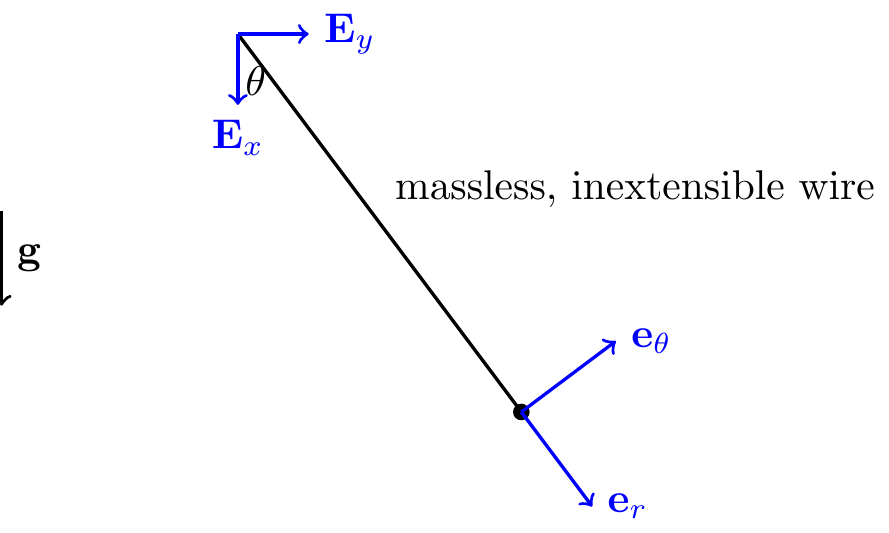
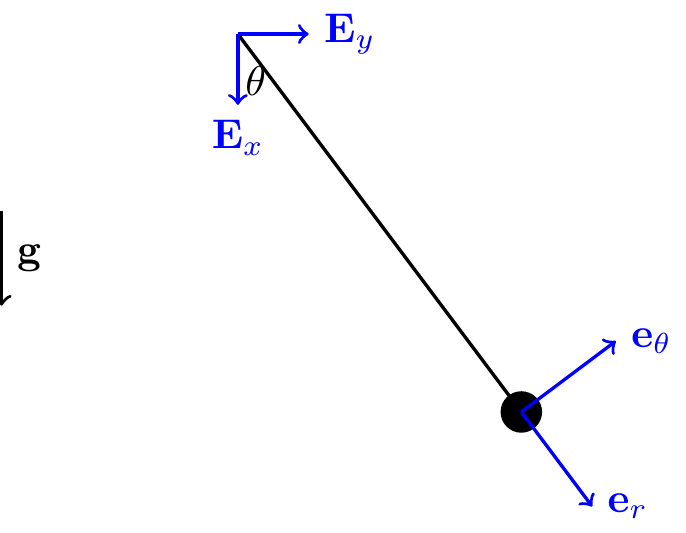
Built site for gh-pages

diff --git a/particle_dynamics/cylindrical_polar_coordinates.html b/particle_dynamics/cylindrical_polar_coordinates.html
@@ -385,10 +385,7 @@ window.Quarto = {
   <li><a href="#example-particle-in-a-rotating-tube" id="toc-example-particle-in-a-rotating-tube" class="nav-link" data-scroll-target="#example-particle-in-a-rotating-tube"><span class="header-section-number">9.4.1</span> Example: Particle in a Rotating Tube</a></li>
   <li><a href="#example-particle-pushed-in-a-circle" id="toc-example-particle-pushed-in-a-circle" class="nav-link" data-scroll-target="#example-particle-pushed-in-a-circle"><span class="header-section-number">9.4.2</span> Example: Particle Pushed in a Circle</a></li>
   </ul></li>
-  <li><a href="#cylindrical-polar-coordinates" id="toc-cylindrical-polar-coordinates" class="nav-link" data-scroll-target="#cylindrical-polar-coordinates"><span class="header-section-number">9.5</span> Cylindrical-Polar Coordinates</a>
-  <ul class="collapse">
-  <li><a href="#example-particle-on-a-cone" id="toc-example-particle-on-a-cone" class="nav-link" data-scroll-target="#example-particle-on-a-cone"><span class="header-section-number">9.5.1</span> Example: Particle on a Cone</a></li>
-  </ul></li>
+  <li><a href="#cylindrical-polar-coordinates" id="toc-cylindrical-polar-coordinates" class="nav-link" data-scroll-target="#cylindrical-polar-coordinates"><span class="header-section-number">9.5</span> Cylindrical-Polar Coordinates</a></li>
   <li><a href="#summary" id="toc-summary" class="nav-link" data-scroll-target="#summary"><span class="header-section-number">9.6</span> Summary</a></li>
   <li><a href="#lecture-videos" id="toc-lecture-videos" class="nav-link" data-scroll-target="#lecture-videos"><span class="header-section-number">9.7</span> Lecture Videos</a></li>
   <li><a href="#exercises" id="toc-exercises" class="nav-link" data-scroll-target="#exercises"><span class="header-section-number">9.8</span> Exercises</a></li>
@@ -443,13 +440,15 @@ window.Quarto = {
 </div>
 <p>Consider a particle in motion in the two dimensional Euclidean space <span class="math inline">\(\mathbb{E}^2\)</span>. Define: <span class="math display">\[\begin{align}
     r = \sqrt{x^2+y^2}\geq 0, \qquad \theta = \tan^{-1}\lp\frac{y}{x}\rp.
-\end{align}\]</span> So <span class="math inline">\(x = r\cos(\theta)\)</span> and <span class="math inline">\(y = r\sin(\theta)\)</span>.</p>
+\end{align}\]</span> So <span class="math display">\[\begin{align}
+    x = r\cos(\theta), \qquad y = r\sin(\theta)
+\end{align}\]</span></p>
 <p>Define the basis <span class="math inline">\(\{{\bf e}_r,{\bf e}_\theta\}\)</span> as a rotation of <span class="math inline">\(\{{\bf E}_x,{\bf E}_y\}\)</span> by angle <span class="math inline">\(\theta\)</span> (positive CCW about <span class="math inline">\({\bf E}_z\)</span>):</p>
 <div class="cell" data-layout-align="center">
 <div class="cell-output-display">
 <div class="quarto-figure quarto-figure-center">
 <figure class="figure">
-<p><img src="cylindrical_polar_coordinates_files/figure-html/unnamed-chunk-2-1.png" class="img-fluid quarto-figure quarto-figure-center figure-img" width="96"></p>
+<p><img src="cylindrical_polar_coordinates_files/figure-html/unnamed-chunk-2-1.png" class="img-fluid quarto-figure quarto-figure-center figure-img" width="192"></p>
 </figure>
 </div>
 </div>
@@ -530,7 +529,7 @@ window.Quarto = {
 <div class="cell-output-display">
 <div class="quarto-figure quarto-figure-center">
 <figure class="figure">
-<p><img src="cylindrical_polar_coordinates_files/figure-html/unnamed-chunk-3-1.png" class="img-fluid quarto-figure quarto-figure-center figure-img" width="96"></p>
+<p><img src="cylindrical_polar_coordinates_files/figure-html/unnamed-chunk-3-1.png" class="img-fluid quarto-figure quarto-figure-center figure-img" width="192"></p>
 </figure>
 </div>
 </div>
@@ -555,7 +554,7 @@ window.Quarto = {
 </div>
 </div>
 <div class="callout-body-container callout-body">
-<p><strong>Question:</strong> Calculate <span class="math inline">\({\bf v}\)</span> and <span class="math inline">\({\bf a}\)</span>.</p>
+<p><strong>Question:</strong> Show that <span class="math inline">\({\bf v} = \dot{r}{\bf e}_r+r\dot{\theta}{\bf e}_\theta\)</span> and <span class="math inline">\({\bf a} = \lp \ddot{r}-r\dot{\theta}^2\rp{\bf e}_r+\lp 2\dot{r}\dot{\theta}+r\ddot{\theta}\rp{\bf e}_\theta\)</span>.</p>
 <div class="callout callout-style-default callout-note callout-titled" title="Answer">
 <div class="callout-header d-flex align-content-center collapsed" data-bs-toggle="collapse" data-bs-target=".callout-5-contents" aria-controls="callout-5" aria-expanded="false" aria-label="Toggle callout">
 <div class="callout-icon-container">
@@ -580,36 +579,44 @@ window.Quarto = {
 </div>
 </div>
 </div>
-<p><span class="math display">\[\begin{align*}
-    {\bf r} &amp;= r{\bf e}_r+0{\bf e}_\theta\\
-    {\bf v} &amp;= v_r{\bf e}_r+v_\theta{\bf e}_\theta\\
-    {\bf a} &amp;= a_r{\bf e}_r+a_\theta{\bf e}_\theta
-\end{align*}\]</span></p>
-<p><strong>Remark: <span class="math inline">\(a_r \neq \dot{v}_r\)</span>.</strong> Be careful: <span class="math inline">\(v_r = \dot{r}\)</span> so <span class="math inline">\(\dot{v}_r = \ddot{r}\)</span>, but <span class="math inline">\(a_r = \ddot{r} - r\dot{\theta}^2 \neq \dot{v}_r\)</span> in general.</p>
-<p>Note the components of acceleration:</p>
+<p>Note the components of acceleration vector:</p>
 <ul>
 <li><span class="math inline">\(r\ddot{\theta}\)</span>: tangential</li>
 <li><span class="math inline">\(\ddot{r}\)</span>: radial</li>
 <li><span class="math inline">\(r\dot{\theta}^2\)</span>: centripetal</li>
 <li><span class="math inline">\(2\dot{r}\dot{\theta}\)</span>: Coriolis</li>
 </ul>
-<p><strong>Remark: When to use polar vs Cartesiancoordinates?</strong> For rectilinear motions, Cartesian coordinates are usually easiest. For problems where <span class="math inline">\(r\)</span> is directly measured (e.g.&nbsp;radar tracking), polar coordinates are natural.</p>
+<p>We may also introduce the notation <span class="math display">\[\begin{align*}
+    {\bf r} &amp;= r{\bf e}_r+0{\bf e}_\theta\\
+    {\bf v} &amp;= v_r{\bf e}_r+v_\theta{\bf e}_\theta\\
+    {\bf a} &amp;= a_r{\bf e}_r+a_\theta{\bf e}_\theta
+\end{align*}\]</span></p>
+<p><strong>Remark: <span class="math inline">\(a_r \neq \dot{v}_r\)</span>.</strong> Be careful: <span class="math inline">\(v_r = \dot{r}\)</span> so <span class="math inline">\(\dot{v}_r = \ddot{r}\)</span>, but <span class="math inline">\(a_r = \ddot{r} - r\dot{\theta}^2 \neq \dot{v}_r\)</span> in general.</p>
+<p><strong>Remark: When to use polar vs Cartesiancoordinates?</strong> For rectilinear motions, Cartesian coordinates are usually easiest. For problems where <span class="math inline">\(r\)</span> is directly measured (e.g.&nbsp;radar tracking as in MKB 2/121.), polar coordinates are natural.</p>
+<div class="quarto-figure quarto-figure-center">
+<figure class="figure">
+<p><img src="../figures/cylindrical_polar_coordinates/02-121.jpg" class="img-fluid figure-img" style="width:50.0%"></p>
+<figcaption>MKB 2/121.</figcaption>
+</figure>
+</div>
 </section>
 <section id="example-nonlinear-pendulum" class="level2" data-number="9.3">
 <h2 data-number="9.3" class="anchored" data-anchor-id="example-nonlinear-pendulum"><span class="header-section-number">9.3</span> Example: Nonlinear Pendulum</h2>
-<p>Consider a particle of mass <span class="math inline">\(m\)</span> suspended from a rigid inextensible string of length <span class="math inline">\(\ell\)</span>. Find the equation of motion.</p>
+<p>Consider a particle of mass <span class="math inline">\(m\)</span> suspended by a massless inextensible string of length <span class="math inline">\(\ell\)</span>. Find the equation of motion of the particle and the tension in the string.</p>
 <div class="cell" data-layout-align="center">
 <div class="cell-output-display">
 <div class="quarto-figure quarto-figure-center">
 <figure class="figure">
-<p><img src="cylindrical_polar_coordinates_files/figure-html/unnamed-chunk-4-1.png" class="img-fluid quarto-figure quarto-figure-center figure-img" width="192"></p>
+<p><img src="cylindrical_polar_coordinates_files/figure-html/unnamed-chunk-4-1.png" class="img-fluid quarto-figure quarto-figure-center figure-img" width="288"></p>
 </figure>
 </div>
 </div>
 </div>
-<p>The constraint on the motion: <span class="math display">\[\begin{align}
+<p>The planar motion of the particle is constrained by the string. This constraint can be expressed mathematically in Cartesian and polar coordinates respectively as <span class="math display">\[\begin{align}
+    \sqrt{x^2+y^2} = \ell
+\end{align}\]</span> <span class="math display">\[\begin{align}
     r = \ell = \text{const.} \implies \dot{r}=0,\ \ddot{r} = 0.
-\end{align}\]</span></p>
+\end{align}\]</span> Note that the constraint is simpler in polar coordinates. This is a common theme: the right choice of coordinates can simplify the problem significantly.</p>
 <div class="callout callout-style-default callout-tip callout-titled" title="Think!">
 <div class="callout-header d-flex align-content-center">
 <div class="callout-icon-container">
@@ -641,7 +648,7 @@ window.Quarto = {
 </div>
 <p>Following the four steps:</p>
 <ol type="1">
-<li>Choose polar coordinates: <span class="math display">\[\begin{align*}
+<li>Our system is the particke. Choosing polar coordinates, we write its position, velocity, and acceleration as <span class="math display">\[\begin{align*}
 {\bf r} &amp;= \ell{\bf e}_r, \quad {\bf v} = \ell\dot{\theta}{\bf e}_\theta, \quad {\bf a} = \ell\ddot{\theta}{\bf e}_\theta-\ell\dot{\theta}^2{\bf e}_r.
 \end{align*}\]</span></li>
 </ol>
@@ -677,30 +684,63 @@ window.Quarto = {
 </div>
 </div>
 <ol start="3" type="1">
-<li>Balance of linear momentum: <span class="math display">\[\begin{align*}
+<li><p>Balance of linear momentum: <span class="math display">\[\begin{align*}
 mg{\bf E}_x-T{\bf e}_r &amp;= m\ell\lp\ddot{\theta}{\bf e}_\theta-\dot{\theta}^2{\bf e}_r\rp.
-\end{align*}\]</span> Projecting along <span class="math inline">\({\bf e}_\theta\)</span> (hides unknown tension): <span class="math display">\[\begin{align*}
--mg\sin(\theta) &amp;= m\ell\ddot{\theta} \implies \ddot{\theta}+\frac{g}{\ell}\sin(\theta) = 0.
-\end{align*}\]</span> For small <span class="math inline">\(\theta\)</span>: <span class="math inline">\(\ddot{\theta}+\frac{g}{\ell}\theta = 0\)</span> (simple harmonic motion).</li>
+\end{align*}\]</span></p></li>
+<li><p>Projecting along <span class="math inline">\({\bf e}_\theta\)</span> (hides unknown tension) and results in the equation of motion for <span class="math inline">\(\theta\)</span>: <span class="math display">\[\begin{align*}
+-mg\sin(\theta) &amp;= m\ell\ddot{\theta} \implies \ddot{\theta}+\frac{g}{\ell}\sin(\theta) = 0
+\end{align*}\]</span> which can be solved numerically for <span class="math inline">\(\theta(t)\)</span> given IC’s <span class="math inline">\(\theta(0), \dot{\theta}(0)\)</span>. This is a nonlinear ODE. For small <span class="math inline">\(\theta\)</span>, we can linearise <span class="math inline">\(\sin(\theta)\approx \theta\)</span> and solve the resulting simple harmonic motion equation by hand <span class="math display">\[\begin{align*}
+\ddot{\theta}+\frac{g}{\ell}\theta = 0
+\end{align*}\]</span></p></li>
 </ol>
-<p>Projecting along <span class="math inline">\({\bf e}_r\)</span> gives the tension: <span class="math inline">\(T = m\lp\ell\dot{\theta}^2+g\cos(\theta)\rp\)</span>.</p>
+<p>Projecting along <span class="math inline">\({\bf e}_r\)</span> gives the tension: <span class="math display">\[\begin{align*}
+    T = m\lp\ell\dot{\theta}^2+g\cos(\theta)\rp
+\end{align*}\]</span></p>
 </section>
 <section id="types-of-accelerations-explained" class="level2" data-number="9.4">
 <h2 data-number="9.4" class="anchored" data-anchor-id="types-of-accelerations-explained"><span class="header-section-number">9.4</span> Types of Accelerations Explained</h2>
+<p>The goal of this section is to give physical intuition for the different components of acceleration in polar coordinates.</p>
 <p>Recall: <span class="math display">\[\begin{align*}
     {\bf a} = \lp\ddot{r}-r\dot{\theta}^2\rp{\bf e}_r+\lp2\dot{r}\dot{\theta}+r\ddot{\theta}\rp{\bf e}_\theta.
 \end{align*}\]</span></p>
+<div class="callout callout-style-default callout-tip callout-titled" title="Think!">
+<div class="callout-header d-flex align-content-center">
+<div class="callout-icon-container">
+<i class="callout-icon"></i>
+</div>
+<div class="callout-title-container flex-fill">
+<span class="screen-reader-only">Tip</span>Think!
+</div>
+</div>
+<div class="callout-body-container callout-body">
+<p><strong>Question:</strong> Can you think of physical systems where the acceleration of the particle is purely tangential, purely radial, purely centripetal, or purely Coriolis?</p>
+<div class="callout callout-style-default callout-note callout-titled" title="Answer">
+<div class="callout-header d-flex align-content-center collapsed" data-bs-toggle="collapse" data-bs-target=".callout-11-contents" aria-controls="callout-11" aria-expanded="false" aria-label="Toggle callout">
+<div class="callout-icon-container">
+<i class="callout-icon"></i>
+</div>
+<div class="callout-title-container flex-fill">
+<span class="screen-reader-only">Note</span>Answer
+</div>
+<div class="callout-btn-toggle d-inline-block border-0 py-1 ps-1 pe-0 float-end"><i class="callout-toggle"></i></div>
+</div>
+<div id="callout-11" class="callout-11-contents callout-collapse collapse">
+<div class="callout-body-container callout-body">
+<p>…</p>
+</div>
+</div>
+</div>
+</div>
+</div>
 <ul>
 <li><strong>Radial</strong> <span class="math inline">\(\ddot{r}\)</span>: particle on a spring in rectilinear motion.</li>
 <li><strong>Centripetal</strong> <span class="math inline">\(-r\dot{\theta}^2\)</span>: particle on a circle at constant speed — the normal force steers the particle.</li>
-<li><strong>Coriolis</strong> <span class="math inline">\(2\dot{r}\dot{\theta}\)</span>: particle in a tube rotating at constant angular velocity.</li>
-<li><strong>Tangential</strong> <span class="math inline">\(r\ddot{\theta}\)</span>: particle pushed along a circle.</li>
+<li><strong>Tangential</strong> <span class="math inline">\(r\ddot{\theta}\)</span>: It is not possible to have purely tangential acceleration without a nonzero centripetal acceleration. particle pushed along a circle.</li>
+<li><strong>Coriolis</strong> <span class="math inline">\(2\dot{r}\dot{\theta}\)</span>: It is not possible to have purely Coriolis acceleration without a nonzero centripetal acceleration. A minimal example of nonzero Coriolis acceleration is a particle in a tube rotating at constant angular velocity. The Coriolis acceleration is due to both the rotation of the tube and the radial motion of the particle inside the tube.</li>
 </ul>
-<p><img src="../figures/cylindrical_polar_coordinates/rddot.png" class="img-fluid" style="width:50.0%" alt="Radial (\ddot{r}) acceleration."> <img src="../figures/cylindrical_polar_coordinates/centripetal_acceleration.png" class="img-fluid" style="width:50.0%" alt="Centripetal (-r\dot\theta^2) acceleration."> <img src="../figures/cylindrical_polar_coordinates/coriolis_acceleration.png" class="img-fluid" style="width:50.0%" alt="Coriolis (2\dot{r}\dot\theta) acceleration."> <img src="../figures/cylindrical_polar_coordinates/tangential_acceleration.png" class="img-fluid" style="width:50.0%" alt="Tangential (r\ddot\theta) acceleration."></p>
 <section id="example-particle-in-a-rotating-tube" class="level3" data-number="9.4.1">
 <h3 data-number="9.4.1" class="anchored" data-anchor-id="example-particle-in-a-rotating-tube"><span class="header-section-number">9.4.1</span> Example: Particle in a Rotating Tube</h3>
 <p><span class="math inline">\(\dot{\theta} = \omega = \text{const.}\)</span>, <span class="math inline">\(\ddot{\theta} = 0\)</span>.</p>
-<p><img src="../figures/cylindrical_polar_coordinates/particle_in_rotating_tube.png" class="img-fluid" style="width:50.0%" alt="Rotating tube setup."> <img src="../figures/cylindrical_polar_coordinates/particle_in_tube_fbd.JPG" class="img-fluid" style="width:50.0%" alt="Free body diagram."></p>
 <div class="cell" data-layout-align="center">
 <div class="cell-output-display">
 <div class="quarto-figure quarto-figure-center">
@@ -763,12 +803,7 @@ mg{\bf E}_x-T{\bf e}_r &amp;= m\ell\lp\ddot{\theta}{\bf e}_\theta-\dot{\theta}^2
     {\bf v} &amp;= \dot{r}{\bf e}_r+r\dot{\theta}{\bf e}_\theta+\dot{z}{\bf E}_z,\\
     {\bf a} &amp;= \lp\ddot{r}-r\dot{\theta}^2\rp{\bf e}_r+\lp2\dot{r}\dot{\theta}+r\ddot{\theta}\rp{\bf e}_\theta+\ddot{z}{\bf E}_z.
 \end{align*}\]</span></p>
-<section id="example-particle-on-a-cone" class="level3" data-number="9.5.1">
-<h3 data-number="9.5.1" class="anchored" data-anchor-id="example-particle-on-a-cone"><span class="header-section-number">9.5.1</span> Example: Particle on a Cone</h3>
 <p>See animation for 03/067 <a href="https://drive.google.com/file/d/1d8FJqs0GMQU0FxUE3R66rfcSTCCHFTOu/view?usp=sharing">here</a>.</p>
-<p><img src="../figures/cylindrical_polar_coordinates/03-067.png" class="img-fluid" style="width:50.0%"></p>
-<p><img src="../figures/cylindrical_polar_coordinates/03-193.png" class="img-fluid" style="width:50.0%"></p>
-</section>
 </section>
 <section id="summary" class="level2" data-number="9.6">
 <h2 data-number="9.6" class="anchored" data-anchor-id="summary"><span class="header-section-number">9.6</span> Summary</h2>
@@ -791,6 +826,9 @@ mg{\bf E}_x-T{\bf e}_r &amp;= m\ell\lp\ddot{\theta}{\bf e}_\theta-\dot{\theta}^2
 <section id="exercises" class="level2" data-number="9.8">
 <h2 data-number="9.8" class="anchored" data-anchor-id="exercises"><span class="header-section-number">9.8</span> Exercises</h2>
 <p><em>The following problems are from Set 05 – Cylindrical Polar Coordinates.</em></p>
+<hr>
+<p><img src="../figures/cylindrical_polar_coordinates/03-067.png" class="img-fluid" style="width:50.0%"></p>
+<p><img src="../figures/cylindrical_polar_coordinates/03-193.png" class="img-fluid" style="width:50.0%"></p>
 <p><strong>1.</strong> [MKB 2/121] Take the origin at the satellite; <span class="math inline">\(\mathbf{E}_x\)</span> rightwards, <span class="math inline">\(\mathbf{E}_y\)</span> upwards. Write the position in both cylindrical and Cartesian coordinates. <em>(ans. <span class="math inline">\(v = 360\)</span> m/s, <span class="math inline">\(a = 20.1\)</span> m/s<span class="math inline">\(^2\)</span>)</em></p>
 <div class="quarto-figure quarto-figure-center">
 <figure class="figure">